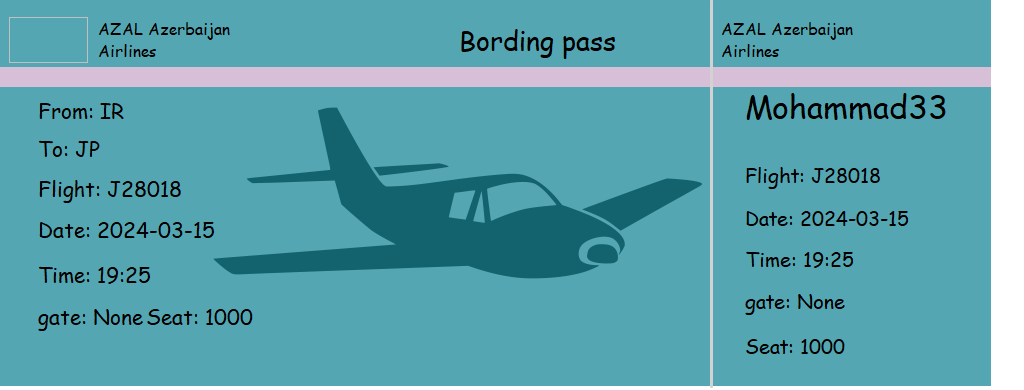
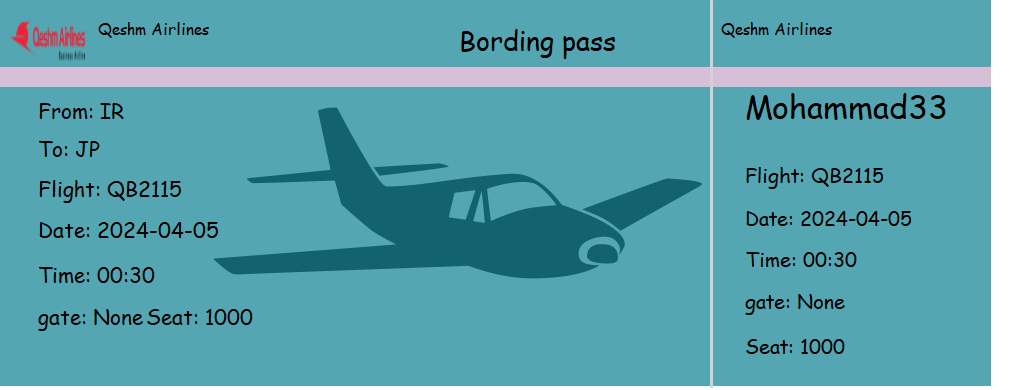
v4

diff --git a/API/ticket/ticket/ht1.html b/API/ticket/ticket/ht1.html
@@ -41,7 +41,7 @@
         height: 30px;
         z-index: 2;
       ">
-      <p>Flight: J28018</p>
+      <p>Flight: QB2115</p>
     </div>
     <div
       id="wb_Text2"
@@ -53,7 +53,7 @@
         height: 30px;
         z-index: 3;
       ">
-      <p>Date: 2024-03-15</p>
+      <p>Date: 2024-04-05</p>
     </div>
     <div
       id="wb_Text3"
@@ -65,7 +65,7 @@
         height: 30px;
         z-index: 4;
       ">
-      <p>Time: 19:25</p>
+      <p>Time: 00:30</p>
     </div>
     <div
       id="wb_Text4"
@@ -126,7 +126,7 @@
         height: 22px;
         z-index: 10;
       ">
-      <p>AZAL Azerbaijan Airlines</p>
+      <p>Qeshm Airlines</p>
     </div>
     <div
       id="wb_Text9"
@@ -138,7 +138,7 @@
         height: 28px;
         z-index: 11;
       ">
-      <p>Flight: J28018</p>
+      <p>Flight: QB2115</p>
     </div>
     <div
       id="wb_Text10"
@@ -150,7 +150,7 @@
         height: 28px;
         z-index: 12;
       ">
-      <p>Date: 2024-03-15</p>
+      <p>Date: 2024-04-05</p>
     </div>
     <div
       id="wb_Text11"
@@ -186,7 +186,7 @@
         height: 28px;
         z-index: 15;
       ">
-      <p>Time: 19:25</p>
+      <p>Time: 00:30</p>
     </div>
     <hr
       id="HorizontalLine2"
@@ -232,9 +232,9 @@
         z-index: 19;
       ">
       <img
-        src="None"
+        src="https://api-ninjas.com/images/airline_logos/qeshm_airlines.jpg"
         id="Image2"
-        alt="AZAL Azerbaijan Airlines"
+        alt="Qeshm Airlines"
         width="78"
         height="45" />
     </div>
@@ -248,7 +248,7 @@
         height: 22px;
         z-index: 20;
       ">
-      <p>AZAL Azerbaijan Airlines</p>
+      <p>Qeshm Airlines</p>
     </div>
     <div
       id="wb_Text6"

diff --git a/app.py b/app.py
@@ -16,7 +16,7 @@ set_default_color_theme("theme/blue-theme.json")
 
 
 class graghic(flight_data):
-    def __init__(self, api_key: str, root):
+    def __init__(self, api_key: str, root:CTkToplevel):
         style.run()
         super().__init__(api_key)
         self.root = root
@@ -105,12 +105,13 @@ class graghic(flight_data):
         self.button_frame = CTkFrame(self.top_frame, corner_radius=10)
         self.button_frame.pack(padx=20, pady=(0, 20))
 
-        CTkButton(
+        self.apply_button = CTkButton(
             self.button_frame,
             text="Apply",
             height=65,
             command=self.run_requests_thread
-        ).pack()
+        )
+        self.apply_button.pack()
 
         # ==========================================down_frame=================================
 
@@ -138,15 +139,17 @@ class graghic(flight_data):
             yscrollcommand=rs.set,
             xscrollcommand=bs.set,
         )
+        self.treeview.tag_configure("odd", background="#2B2B2B")
+        self.treeview.tag_configure("even", background="#242424")
         for column in columns:
             self.treeview.heading(column, text=column)
             self.treeview.column(column, width=50)
         self.treeview["show"] = "headings"
         self.treeview.pack(fill="both", expand=1, padx=20, pady=20)
-
+        self.treeview.bind("<ButtonRelease-1>", lambda env: self.show_all_data(
+            [self.data["data"][int(self.treeview.focus().replace("I", ""), 16) - 1]]))
         bs.configure(command=self.treeview.xview)
         rs.configure(command=self.treeview.yview)
-
 
         # Map View
         def create_map():
@@ -162,6 +165,8 @@ class graghic(flight_data):
         threading.Thread(target=create_map).start()
 
     def Apply(self):
+        self.apply_button.configure(state=DISABLED, text="Searching...")
+        self.root.unbind("<Return>")
 
         # set_fligth_status
         self.set_fligth_status(self.status_input.get())
@@ -225,22 +230,25 @@ class graghic(flight_data):
 
         try:
             self.data = self.get_json()
+
+            if self.data.get("error") == None:
+                self.geoData = self.update_geoData()
+                self.mergeData()
+                with concurrent.futures.ThreadPoolExecutor() as executor:
+                    executor.submit(self.flight_map)
+                    executor.submit(self.flight_list)
+            else:
+                print(f"{self.data.get('error')}")
         except requests.exceptions.ReadTimeout:
             print("Timeout")
-            return
 
-        if self.data.get("error") == None:
-            self.geoData = self.update_geoData()
-            self.mergeData()
-            with concurrent.futures.ThreadPoolExecutor() as executor:
-                executor.submit(self.flight_map)
-                executor.submit(self.flight_list)
-        else:
-            print(f"{self.data.get('error')}")
+        self.root.bind("<Return>", lambda event: self.run_requests_thread())
+        self.apply_button.configure(state=NORMAL, text="Apply")
 
     def flight_list(self):
         self.treeview.delete(*self.treeview.get_children())
         self.count = self.data["pagination"]["count"]
+        tag = "odd"
         for i in range(self.count):
             self.treeview.insert("",
                                  i,
@@ -254,13 +262,9 @@ class graghic(flight_data):
                                      self.data["data"][i]["flight"]["iata"],
                                      self.data["data"][i]["airline"]["name"]
 
-                                 ),
+                                 ), tags=tag
                                  )
-
-    def show_fullData(self, val: str):
-        index = int(val[: (val.index("/"))]) - 1
-        self.top_window = CTkToplevel()
-        com = ComplateData(self.top_window, [self.data["data"][index]], self.geoData)
+            tag = "odd" if tag == "even" else "even"
 
     def update_geoData(self):
         iatas = list()
@@ -320,11 +324,13 @@ class graghic(flight_data):
                     ):
                         self.usefull_flight.append(flight)
 
-        self.top_window = CTkToplevel(self.root)
-        com = ComplateData(self.top_window, self.usefull_flight, self.geoData)
+        self.show_all_data(self.usefull_flight)
+
+    def show_all_data(self, data):
+        top = CTkToplevel(self.root)
+        com = ComplateData(top, data, self.geoData)
 
     def markerClick(self, env: canvas_position_marker.CanvasPositionMarker):
-        # path = canvas_path.CanvasPath()
         usefull = list()
         iata = env.data
         for path in self.all_paths:
@@ -366,6 +372,7 @@ class graghic(flight_data):
                 ]
 
     def run_requests_thread(self):
+        print("run_requests_thread")
         self.requests_thread = threading.Thread(target=self.Apply)
         self.requests_thread.start()
 
@@ -377,6 +384,6 @@ if __name__ == "__main__":
     root.withdraw()
     t = CTkToplevel(root)
     t.protocol("WM_DELETE_WINDOW", sys.exit)
-    aa = graghic(api_key="12089a0890294cc08148c89840b5b95a", root=t)
+    aa = graghic(api_key="604bc1fecafa0bc1a212fca237e0d18a", root=t)
 
     root.mainloop()

diff --git a/ComplateData.py b/ComplateData.py
@@ -1,4 +1,5 @@
 import re
+import threading
 from io import BytesIO
 
 import numpy as np
@@ -162,38 +163,37 @@ class ComplateData:
                     des, [0, 402], [map_widget.min_zoom, map_widget.max_zoom]
                 )
             )
-            map_widget.set_zoom(zoom=int(zoom))
+            map_widget.set_zoom(zoom=int(1))
 
             map_widget.set_path([(dep_lat, dep_lon), (arr_lat, arr_lon)])
 
     def ticket(self, data: dict):
+        def run():
+            url = "http://127.0.0.1:8000/get_ticket"
+            match = re.search(r"(\d{4}-\d{2}-\d{2})T(\d{2}:\d{2})", data["departure"]["scheduled"])
+            if match:
+                time = match.group(2)
+                date = match.group(1)
+            else:
+                time = date = None
 
-        url = "http://127.0.0.1:8000/get_ticket"
+            r = requests.post(url=url, json={
+                "ticket": data["airline"],
+                "from": "IR",
+                "to": "JP",
+                "flight": data["flight"]["iata"],
+                "date": date.strip(),
+                "time": time.strip().replace("-", "/"),
+                "gate": data["departure"]["gate"],
+                "seat": "1000",
+                "fullname": "Mohammad33"
 
-        match = re.search(r"(\d{4}-\d{2}-\d{2})T(\d{2}:\d{2})", data["departure"]["scheduled"])
-        if match:
-            time = match.group(2)
-            date = match.group(1)
-        else:
-            time = date = None
+            })
 
-        r = requests.post(url=url, json={
-            "ticket": data["airline"],
-            "from": "IR",
-            "to": "JP",
-            "flight": data["flight"]["iata"],
-            "date": date.strip(),
-            "time": time.strip().replace("-", "/"),
-            "gate": data["departure"]["gate"],
-            "seat": "1000",
-            "fullname": "Mohammad33"
-
-        })
-
-        img = Image.open(BytesIO(r.content))
-        img.save("ticket.png", "PNG")
-        img.show()
-
+            img = Image.open(BytesIO(r.content))
+            #img.save("ticket.png", "PNG")
+            img.show()
+        threading.Thread(target=run).start()
 
 if __name__ == '__main__':
     import json

diff --git a/fapi.py b/fapi.py
@@ -56,7 +56,7 @@ class flight_data:
             if self.header[key] == None:
                 del self.header[key]
 
-        self.respone = requests.get(url=self.url, params=self.header, timeout=30)
+        self.respone = requests.get(url=self.url, params=self.header, timeout=60)
         if self.respone.status_code == 200:
             self.result = self.respone.json()
             return self.result

diff --git a/loginPage.py b/loginPage.py
@@ -114,7 +114,7 @@ class gg(CTk):
             self.withdraw()
             self.t = CTkToplevel(self)
             self.t.protocol("WM_DELETE_WINDOW", self.close_all)
-            self.aa = app.graghic(api_key="12089a0890294cc08148c89840b5b95a", root=self.t)
+            self.aa = app.graghic(api_key="604bc1fecafa0bc1a212fca237e0d18a", root=self.t)
 
     def close_all(self):
         self.t.destroy()

diff --git a/style.py b/style.py
@@ -13,7 +13,7 @@ def run():
                     fieldbackground="#343638",
                     bordercolor="#ff0000",
                     borderwidth=8,
-                    font=("Arial", 10),
+                    font=("Arial", 12),
                     relief="ridge",
                     )
     style.map('Treeview', background=[('selected', '#22559b')])
